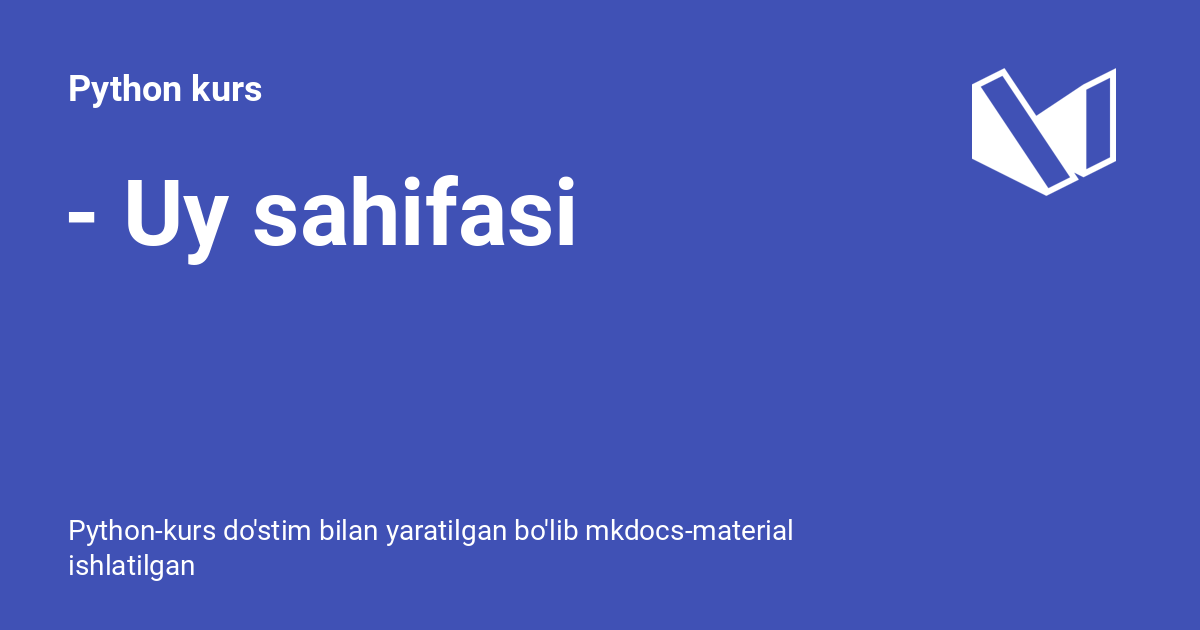
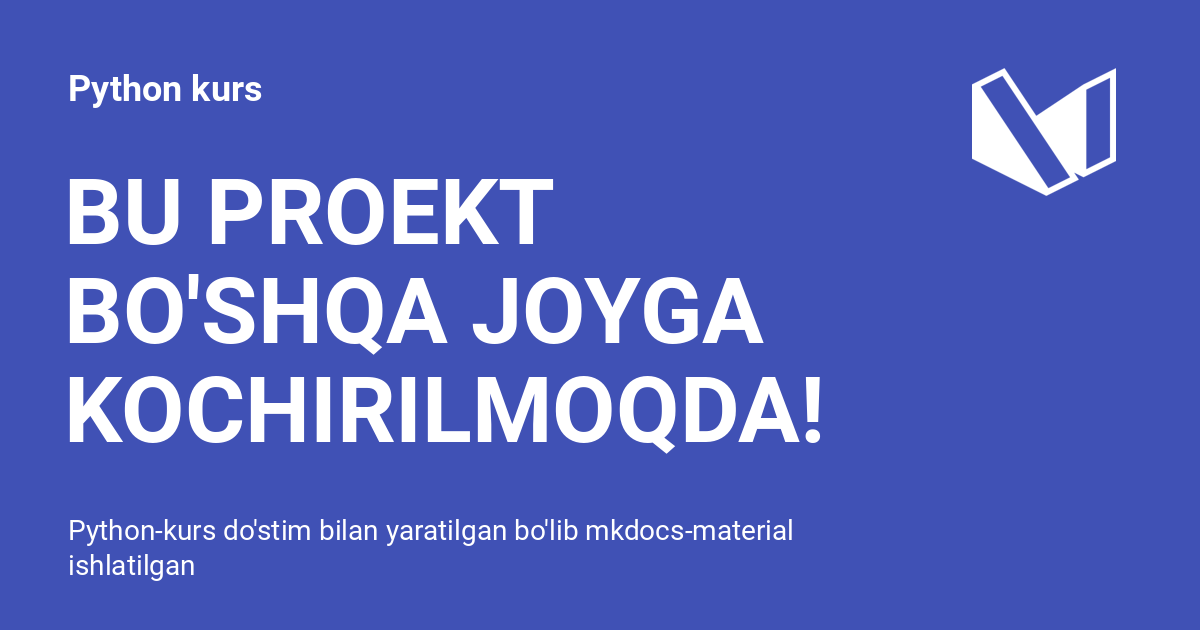
Deployed 402b573 with MkDocs version: 1.5.3

Changed region(s): [[0.0308, 0.2714, 0.7092, 0.7238]]

diff --git a/index.html b/index.html
@@ -22,7 +22,7 @@
     
     
       
-        <title>- Uy sahifasi - Python kurs</title>
+        <title>BU PROEKT BO'SHQA JOYGA KOCHIRILMOQDA! - Python kurs</title>
       
     
     
@@ -69,7 +69,7 @@
       
         <meta  property="og:type"  content="website" >
       
-        <meta  property="og:title"  content="- Uy sahifasi - Python kurs" >
+        <meta  property="og:title"  content="BU PROEKT BO'SHQA JOYGA KOCHIRILMOQDA! - Python kurs" >
       
         <meta  property="og:description"  content="Python-kurs do'stim bilan yaratilgan bo'lib mkdocs-material ishlatilgan" >
       
@@ -85,7 +85,7 @@
       
         <meta  name="twitter:card"  content="summary_large_image" >
       
-        <meta  name="twitter:title"  content="- Uy sahifasi - Python kurs" >
+        <meta  name="twitter:title"  content="BU PROEKT BO'SHQA JOYGA KOCHIRILMOQDA! - Python kurs" >
       
         <meta  name="twitter:description"  content="Python-kurs do'stim bilan yaratilgan bo'lib mkdocs-material ishlatilgan" >
       
@@ -121,7 +121,7 @@
     <div data-md-component="skip">
       
         
-        <a href="#-uy-sahifasi" class="md-skip">
+        <a href="#bu-proekt-boshqa-joyga-kochirilmoqda" class="md-skip">
           Tarkibga o'tish
         </a>
       
@@ -155,7 +155,7 @@
         <div class="md-header__topic" data-md-component="header-topic">
           <span class="md-ellipsis">
             
-              - Uy sahifasi
+              BU PROEKT BO'SHQA JOYGA KOCHIRILMOQDA!
             
           </span>
         </div>
@@ -628,9 +628,10 @@
   
 
 
-<h1 id="-uy-sahifasi"><a class="toclink" href="#-uy-sahifasi">- Uy sahifasi</a><a class="headerlink" href="#-uy-sahifasi" title="Permanent link">&para;</a></h1>
+<h1 id="bu-proekt-boshqa-joyga-kochirilmoqda"><a class="toclink" href="#bu-proekt-boshqa-joyga-kochirilmoqda">BU PROEKT BO'SHQA JOYGA KOCHIRILMOQDA!</a><a class="headerlink" href="#bu-proekt-boshqa-joyga-kochirilmoqda" title="Permanent link">&para;</a></h1>
+<h2 id="-uy-sahifasi"><a class="toclink" href="#-uy-sahifasi">- Uy sahifasi</a><a class="headerlink" href="#-uy-sahifasi" title="Permanent link">&para;</a></h2>
 <p>Kursni bo'shlash uchun bu yerdan boshlang - <a href="getting-started/">Boshlanishi</a></p>
-<h1 id="proekt-xaqida"><a class="toclink" href="#proekt-xaqida">Proekt xaqida</a><a class="headerlink" href="#proekt-xaqida" title="Permanent link">&para;</a></h1>
+<h3 id="proekt-xaqida"><a class="toclink" href="#proekt-xaqida">Proekt xaqida</a><a class="headerlink" href="#proekt-xaqida" title="Permanent link">&para;</a></h3>
 <p><a href="about/#bu-proekt-nima">Proekt haqida</a></p>
 <p><span class="twemoji"><svg xmlns="http://www.w3.org/2000/svg" viewBox="0 0 24 24"><path d="m17.029 18.772.777 1.166-5.417 2.709L0 16.451V4.063l5.417-2.709 5.298 7.948 7.867-5.24L24 1.354V16.84l-5.417 2.709zm2.023-13.827v13.253l3.949-1.975V2.97zM5.076 2.642 1.458 4.45 12.73 21.358l3.618-1.809z"/></svg></span> - MkDocsga Material proektida yaratilgan</p>
 
@@ -655,7 +656,7 @@
     <span class="md-icon" title="Oxirgi yangilanish">
       <svg xmlns="http://www.w3.org/2000/svg" viewBox="0 0 24 24"><path d="M21 13.1c-.1 0-.3.1-.4.2l-1 1 2.1 2.1 1-1c.2-.2.2-.6 0-.8l-1.3-1.3c-.1-.1-.2-.2-.4-.2m-1.9 1.8-6.1 6V23h2.1l6.1-6.1-2.1-2M12.5 7v5.2l4 2.4-1 1L11 13V7h1.5M11 21.9c-5.1-.5-9-4.8-9-9.9C2 6.5 6.5 2 12 2c5.3 0 9.6 4.1 10 9.3-.3-.1-.6-.2-1-.2s-.7.1-1 .2C19.6 7.2 16.2 4 12 4c-4.4 0-8 3.6-8 8 0 4.1 3.1 7.5 7.1 7.9l-.1.2v1.8Z"/></svg>
     </span>
-    <span class="git-revision-date-localized-plugin git-revision-date-localized-plugin-date">March 14, 2024</span>
+    <span class="git-revision-date-localized-plugin git-revision-date-localized-plugin-date">April 15, 2024</span>
   </span>
 
     

diff --git a/about/index.html b/about/index.html
@@ -793,7 +793,7 @@
       <nav class="md-footer__inner md-grid" aria-label="Pastgi qism" >
         
           
-          <a href=".." class="md-footer__link md-footer__link--prev" aria-label="Oldingi sahifa: - Uy sahifasi">
+          <a href=".." class="md-footer__link md-footer__link--prev" aria-label="Oldingi sahifa: BU PROEKT BO&#39;SHQA JOYGA KOCHIRILMOQDA!">
             <div class="md-footer__button md-icon">
               
               <svg xmlns="http://www.w3.org/2000/svg" viewBox="0 0 24 24"><path d="M20 11v2H8l5.5 5.5-1.42 1.42L4.16 12l7.92-7.92L13.5 5.5 8 11h12Z"/></svg>
@@ -803,7 +803,7 @@
                 Oldingi sahifa
               </span>
               <div class="md-ellipsis">
-                - Uy sahifasi
+                BU PROEKT BO'SHQA JOYGA KOCHIRILMOQDA!
               </div>
             </div>
           </a>
